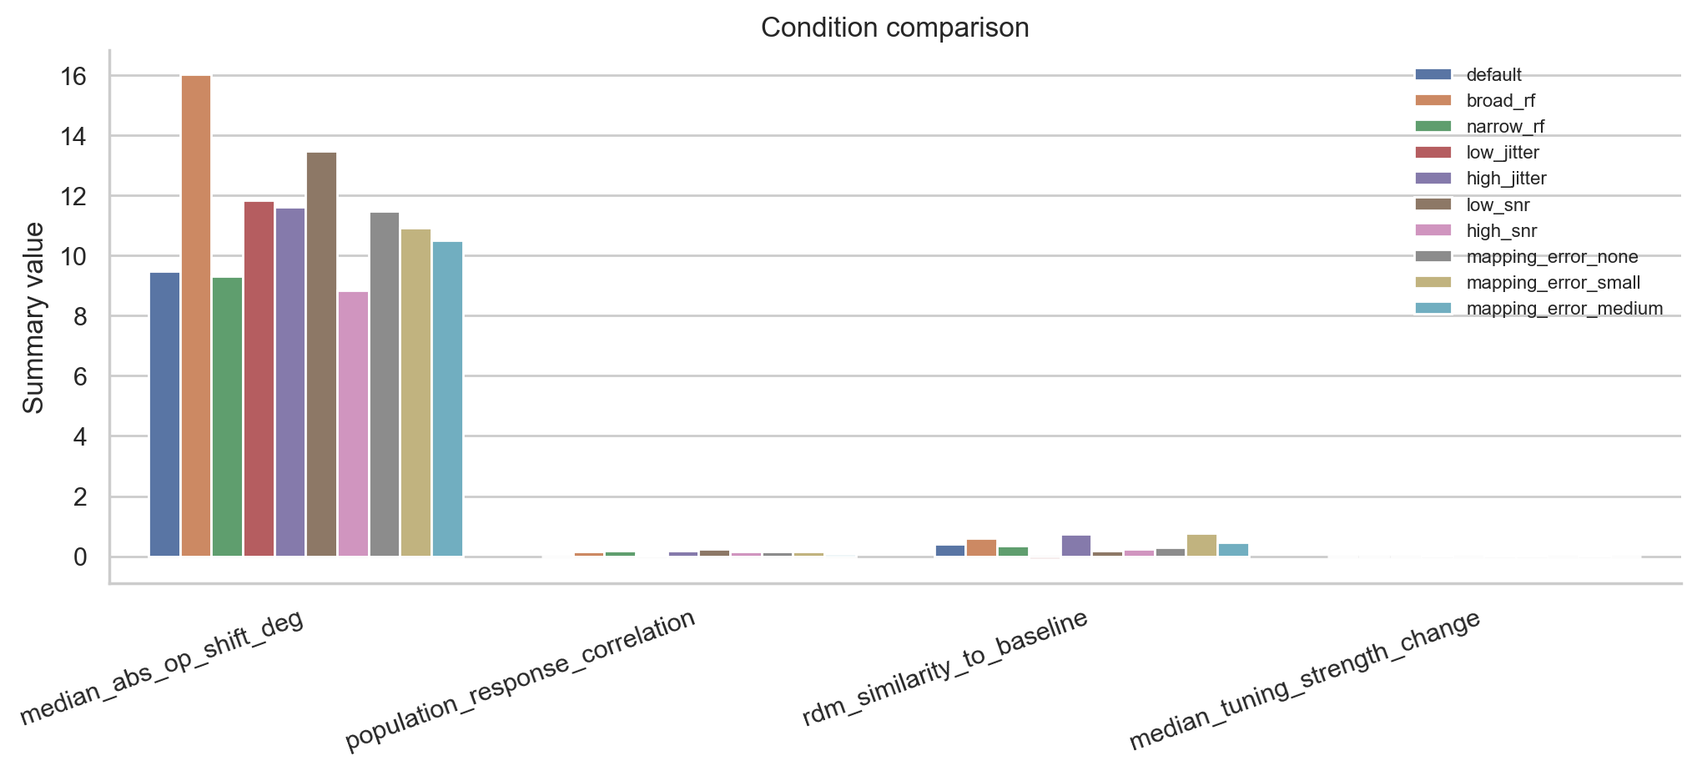
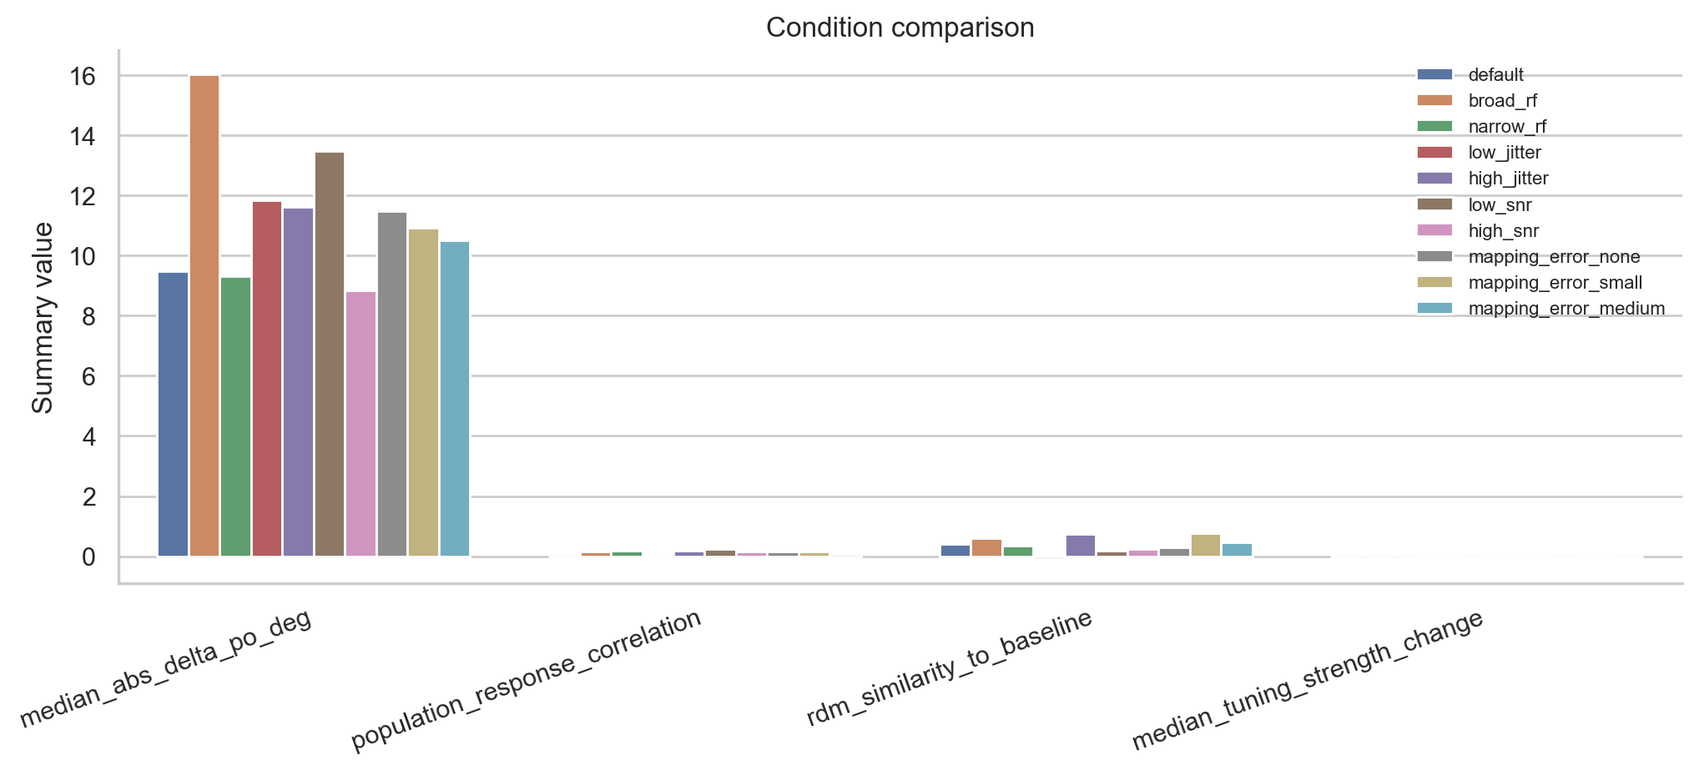
Rename orientation change metrics to delta PO

diff --git a/src/interpretation.py b/src/interpretation.py
@@ -13,7 +13,7 @@ def methods_summary_text(config: dict) -> str:
     gaze = config["gaze"]
     return f"""# Methods Summary
 
-This first-pass null model simulates {n} L2/3-like units sampled uniformly in a {size:.0f} x {size:.0f} um V1 imaging field. Cortical positions are mapped to visual RF centers by a configurable local linear retinotopic transform with Gaussian cell-to-cell scatter. Each unit has a single Gabor-like receptive field with sampled orientation preference, spatial-frequency preference, RF envelope widths, phase, gain, baseline, and static nonlinearity.
+This first-pass null model simulates {n} L2/3-like units sampled uniformly in a {size:.0f} x {size:.0f} um V1 imaging field. Cortical positions are mapped to visual RF centers by a configurable local linear retinotopic transform with Gaussian cell-to-cell scatter. Each unit has a single Gabor-like receptive field with sampled PO, spatial-frequency preference, RF envelope widths, phase, gain, baseline, and static nonlinearity.
 
 Full-field gratings are evaluated with a Gabor-inspired analytic response model that separates orientation/SF matching from gaze-dependent phase. Natural-image responses are evaluated by applying sampled Gabor kernels to preprocessed grayscale images. If no image folder is provided, the pipeline uses procedural naturalistic images so the project remains runnable.
 
@@ -37,23 +37,23 @@ def interpretation_text(
     lines = [
         "# Interpretation Summary",
         "",
-        f"At the largest simulated offset in this run ({far_g['gaze_az_deg']:.2f}, {far_g['gaze_el_deg']:.2f}) deg, the median absolute inferred OP shift was {far_g['median_abs_op_shift_deg']:.2f} deg and the 90th percentile was {far_g['p90_abs_op_shift_deg']:.2f} deg.",
-        f"The median tuning-strength change was {far_g['median_tuning_strength_change']:.3f}; this distinguishes OP rotation from tuning flattening or sharpening.",
+        f"At the largest simulated offset in this run ({far_g['gaze_az_deg']:.2f}, {far_g['gaze_el_deg']:.2f}) deg, the median absolute inferred ΔPO was {far_g['median_abs_delta_po_deg']:.2f} deg and the 90th percentile was {far_g['p90_abs_delta_po_deg']:.2f} deg.",
+        f"The median tuning-strength change was {far_g['median_tuning_strength_change']:.3f}; this distinguishes PO rotation from tuning flattening or sharpening.",
         f"For natural images at the same edge of the grid, population response correlation to baseline was {far_n['population_response_correlation']:.3f}, RDM similarity was {far_n['rdm_similarity_to_baseline']:.3f}, and the median relative per-neuron response change was {far_n['median_relative_response_change']:.3f}.",
         "",
         "Under this model, gaze matters little when RFs are broad, phase is averaged or an energy model is used, mapping is accurate, and SNR is high. Gaze matters more when RFs are narrow, high-SF units are common, phase-sensitive simple-cell responses are estimated from limited phases, or natural images contain local structure that translates across RF subfields.",
         "",
-        "Mapping errors matter when approximate projection, wrong scale, origin offsets, rotation mismatch, or nonlinear distortion produce systematic phase and position errors comparable to the RF subfield scale. Low SNR dominates when repeated-trial averaging and bootstrap intervals show large OP uncertainty even at zero or small gaze offsets.",
+        "Mapping errors matter when approximate projection, wrong scale, origin offsets, rotation mismatch, or nonlinear distortion produce systematic phase and position errors comparable to the RF subfield scale. Low SNR dominates when repeated-trial averaging and bootstrap intervals show large PO uncertainty even at zero or small gaze offsets.",
     ]
     if decomposition_table is not None and not decomposition_table.empty:
         edge = decomposition_table.sort_values("summary_radius").groupby("condition").tail(1)
         lines.extend(["", "Decomposition at the largest analyzed offsets:"])
         for row in edge.itertuples(index=False):
             lines.append(
-                f"- {row.condition}: median |dOP| {row.median_abs_op_shift_deg:.2f} deg, natural-image correlation {row.population_response_correlation:.3f}, RDM similarity {row.rdm_similarity_to_baseline:.3f}."
+                f"- {row.condition}: median |ΔPO| {row.median_abs_delta_po_deg:.2f} deg, natural-image correlation {row.population_response_correlation:.3f}, RDM similarity {row.rdm_similarity_to_baseline:.3f}."
             )
     lines.append("")
     lines.append(
-        "Natural images are considered more gaze-sensitive than gratings here when their population correlation or RDM similarity drops substantially while grating OP shifts remain small. That pattern is expected because translating a structured image can change RF drive without necessarily changing the orientation that best fits grating responses."
+        "Natural images are considered more gaze-sensitive than gratings here when their population correlation or RDM similarity drops substantially while grating ΔPO remains small. That pattern is expected because translating a structured image can change RF drive without necessarily changing the PO that best fits grating responses."
     )
     return "\n".join(lines) + "\n"

diff --git a/src/simulation.py b/src/simulation.py
@@ -82,7 +82,7 @@ def run_grating_shift_grid(
     """Run grating tuning estimation for all gaze shifts."""
     stimuli = make_grating_stimuli(config)
     shifts = make_gaze_grid(config) if shifts is None else shifts.copy()
-    threshold = float(config["analysis"]["op_large_shift_threshold_deg"])
+    threshold = float(config["analysis"].get("po_large_shift_threshold_deg", 10.0))
 
     baseline_mean, baseline_trials = grating_response_mean(
         population,
@@ -298,21 +298,21 @@ def make_primary_figures(
     fig_dir = paths["figures"]
     heatmap_from_table(
         grating_summary,
-        "median_abs_op_shift_deg",
-        fig_dir / "primary_01_median_abs_op_shift.png",
-        title="Median absolute OP shift",
+        "median_abs_delta_po_deg",
+        fig_dir / "primary_01_median_abs_delta_po.png",
+        title="Median absolute ΔPO",
     )
     heatmap_from_table(
         grating_summary,
-        "p90_abs_op_shift_deg",
-        fig_dir / "primary_02_p90_abs_op_shift.png",
-        title="90th percentile absolute OP shift",
+        "p90_abs_delta_po_deg",
+        fig_dir / "primary_02_p90_abs_delta_po.png",
+        title="90th percentile absolute ΔPO",
     )
     heatmap_from_table(
         grating_summary,
-        "fraction_abs_op_shift_gt_threshold",
-        fig_dir / "primary_03_fraction_op_shift_gt_10deg.png",
-        title="Fraction of neurons with |dOP| > threshold",
+        "fraction_abs_delta_po_gt_threshold",
+        fig_dir / "primary_03_fraction_delta_po_gt_10deg.png",
+        title="Fraction of neurons with |ΔPO| > threshold",
     )
     heatmap_from_table(
         grating_summary,
@@ -365,11 +365,11 @@ def make_secondary_figures(
     changes = far["neuron_changes"]
 
     plt.figure(figsize=(5.6, 3.8))
-    sns.histplot(changes["abs_op_shift_deg"], bins=24, color="#4C78A8")
-    plt.xlabel("|dOP| (deg)")
+    sns.histplot(changes["abs_delta_po_deg"], bins=24, color="#4C78A8")
+    plt.xlabel("|ΔPO| (deg)")
     plt.ylabel("Neurons")
-    plt.title(f"OP shifts at gaze {far['gaze'][0]:.1f}, {far['gaze'][1]:.1f} deg")
-    savefig(fig_dir / "secondary_hist_abs_op_shift_far_offset.png")
+    plt.title(f"ΔPO at gaze {far['gaze'][0]:.1f}, {far['gaze'][1]:.1f} deg")
+    savefig(fig_dir / "secondary_hist_abs_delta_po_far_offset.png")
 
     plt.figure(figsize=(5.6, 3.8))
     sns.histplot(changes["circular_variance_change"], bins=24, color="#F58518")
@@ -380,18 +380,18 @@ def make_secondary_figures(
 
     mean_rf_size = 0.5 * (population["sigma_x_deg"].to_numpy() + population["sigma_y_deg"].to_numpy())
     plt.figure(figsize=(5.7, 4.1))
-    plt.scatter(mean_rf_size, changes["abs_op_shift_deg"], s=13, alpha=0.65)
+    plt.scatter(mean_rf_size, changes["abs_delta_po_deg"], s=13, alpha=0.65)
     plt.xlabel("Mean RF sigma (deg)")
-    plt.ylabel("|dOP| (deg)")
-    plt.title("OP shift versus RF size")
-    savefig(fig_dir / "secondary_scatter_op_shift_vs_rf_size.png")
+    plt.ylabel("|ΔPO| (deg)")
+    plt.title("ΔPO versus RF size")
+    savefig(fig_dir / "secondary_scatter_delta_po_vs_rf_size.png")
 
     plt.figure(figsize=(5.7, 4.1))
-    plt.scatter(population["f0_cpd"], changes["abs_op_shift_deg"], s=13, alpha=0.65)
+    plt.scatter(population["f0_cpd"], changes["abs_delta_po_deg"], s=13, alpha=0.65)
     plt.xlabel("Preferred SF (cpd)")
-    plt.ylabel("|dOP| (deg)")
-    plt.title("OP shift versus preferred SF")
-    savefig(fig_dir / "secondary_scatter_op_shift_vs_sf.png")
+    plt.ylabel("|ΔPO| (deg)")
+    plt.title("ΔPO versus preferred SF")
+    savefig(fig_dir / "secondary_scatter_delta_po_vs_sf.png")
 
     plt.figure(figsize=(5.7, 4.1))
     plt.scatter(mean_rf_size, changes["tuning_strength_change"], s=13, alpha=0.65)
@@ -407,15 +407,15 @@ def make_secondary_figures(
         np.sqrt(np.mean(baseline_nat**2, axis=0)) + 1e-9
     )
     plt.figure(figsize=(5.7, 4.1))
-    plt.scatter(changes["abs_op_shift_deg"], natural_change, s=13, alpha=0.65)
-    plt.xlabel("|dOP| at far offset (deg)")
+    plt.scatter(changes["abs_delta_po_deg"], natural_change, s=13, alpha=0.65)
+    plt.xlabel("|ΔPO| at far offset (deg)")
     plt.ylabel("Natural-image relative change")
-    plt.title(f"Bridge sensitivity r={safe_corrcoef(changes['abs_op_shift_deg'], natural_change):.2f}")
+    plt.title(f"Bridge sensitivity r={safe_corrcoef(changes['abs_delta_po_deg'], natural_change):.2f}")
     savefig(fig_dir / "secondary_scatter_natural_vs_grating_sensitivity.png")
 
     baseline_tuning = grating_result["baseline_tuning"]["tuning_curve"]
     shifted_tuning = far["tuning"]["tuning_curve"]
-    selected = np.argsort(changes["abs_op_shift_deg"])
+    selected = np.argsort(changes["abs_delta_po_deg"])
     neuron_ids = [int(selected[0]), int(selected[len(selected) // 2]), int(selected[-1])]
     plot_tuning_examples(
         baseline_tuning,

diff --git a/src/metrics.py b/src/metrics.py
@@ -8,20 +8,20 @@ from .tuning import circular_difference_deg
 
 
 def grating_shift_metrics(baseline: dict[str, np.ndarray], shifted: dict[str, np.ndarray], threshold_deg: float) -> dict[str, float]:
-    """Summarize orientation and tuning-strength changes for one gaze shift."""
-    op_shift = circular_difference_deg(
-        shifted["preferred_orientation_deg"],
-        baseline["preferred_orientation_deg"],
+    """Summarize PO and tuning-strength changes for one gaze shift."""
+    delta_po = circular_difference_deg(
+        shifted["po_deg"],
+        baseline["po_deg"],
         period=180.0,
     )
-    abs_op = np.abs(op_shift)
+    abs_delta_po = np.abs(delta_po)
     cv_change = shifted["circular_variance"] - baseline["circular_variance"]
     strength_change = shifted["orientation_selectivity"] - baseline["orientation_selectivity"]
     return {
-        "median_abs_op_shift_deg": float(np.nanmedian(abs_op)),
-        "p90_abs_op_shift_deg": float(np.nanpercentile(abs_op, 90)),
-        "fraction_abs_op_shift_gt_threshold": float(np.nanmean(abs_op > float(threshold_deg))),
-        "median_signed_op_shift_deg": float(np.nanmedian(op_shift)),
+        "median_abs_delta_po_deg": float(np.nanmedian(abs_delta_po)),
+        "p90_abs_delta_po_deg": float(np.nanpercentile(abs_delta_po, 90)),
+        "fraction_abs_delta_po_gt_threshold": float(np.nanmean(abs_delta_po > float(threshold_deg))),
+        "median_signed_delta_po_deg": float(np.nanmedian(delta_po)),
         "median_circular_variance_change": float(np.nanmedian(cv_change)),
         "median_tuning_strength_change": float(np.nanmedian(strength_change)),
         "median_abs_tuning_strength_change": float(np.nanmedian(np.abs(strength_change))),
@@ -30,14 +30,14 @@ def grating_shift_metrics(baseline: dict[str, np.ndarray], shifted: dict[str, np
 
 def neuronwise_grating_changes(baseline: dict[str, np.ndarray], shifted: dict[str, np.ndarray]) -> dict[str, np.ndarray]:
     """Return per-neuron grating sensitivity values."""
-    op_shift = circular_difference_deg(
-        shifted["preferred_orientation_deg"],
-        baseline["preferred_orientation_deg"],
+    delta_po = circular_difference_deg(
+        shifted["po_deg"],
+        baseline["po_deg"],
         period=180.0,
     )
     return {
-        "signed_op_shift_deg": op_shift,
-        "abs_op_shift_deg": np.abs(op_shift),
+        "signed_delta_po_deg": delta_po,
+        "abs_delta_po_deg": np.abs(delta_po),
         "circular_variance_change": shifted["circular_variance"] - baseline["circular_variance"],
         "tuning_strength_change": shifted["orientation_selectivity"] - baseline["orientation_selectivity"],
     }

diff --git a/src/tuning.py b/src/tuning.py
@@ -26,7 +26,7 @@ def estimate_orientation_tuning(
     orientations_deg: np.ndarray,
     spatial_frequencies_cpd: np.ndarray,
 ) -> dict[str, np.ndarray]:
-    """Estimate OP, best SF, circular variance, and vector strength.
+    """Estimate PO, best SF, circular variance, and vector strength.
 
     Parameters
     ----------
@@ -57,7 +57,7 @@ def estimate_orientation_tuning(
     best_ori_idx = np.nanargmax(tuning, axis=1)
 
     return {
-        "preferred_orientation_deg": pref,
+        "po_deg": pref,
         "best_spatial_frequency_cpd": sfs[best_sf_idx],
         "best_orientation_grid_deg": orientations[best_ori_idx],
         "orientation_selectivity": vector_strength,
@@ -92,7 +92,7 @@ def bootstrap_orientation_ci(
     for idx in range(int(n_bootstrap)):
         sample_idx = rng.integers(0, repeats, size=repeats)
         estimate = estimate_orientation_tuning(np.mean(trials[sample_idx], axis=0), orientations_deg, spatial_frequencies_cpd)
-        pref_samples[idx] = estimate["preferred_orientation_deg"]
+        pref_samples[idx] = estimate["po_deg"]
         cv_samples[idx] = estimate["circular_variance"]
 
     center = circular_mean_deg(pref_samples, period=180.0)
@@ -101,7 +101,7 @@ def bootstrap_orientation_ci(
     pref_high = np.nanpercentile(pref_samples, 97.5, axis=0)
     pref_width = np.abs(circular_difference_deg(pref_high, pref_low, period=180.0))
     return {
-        "preferred_orientation_ci_width_deg": pref_width,
+        "po_ci_width_deg": pref_width,
         "circular_variance_ci_width": np.nanpercentile(cv_samples, 97.5, axis=0)
         - np.nanpercentile(cv_samples, 2.5, axis=0),
     }

diff --git a/scripts/run_drift_sanity_check.py b/scripts/run_drift_sanity_check.py
@@ -80,12 +80,12 @@ def main() -> None:
     table.to_csv(out_path, index=False)
 
     plt.figure(figsize=(7.2, 4.5))
-    sns.lineplot(data=table, x="drift_deg", y="median_abs_op_shift_deg", hue="drift_path", marker="o")
-    plt.axhline(config["analysis"]["op_large_shift_threshold_deg"], color="0.35", lw=1, ls="--")
+    sns.lineplot(data=table, x="drift_deg", y="median_abs_delta_po_deg", hue="drift_path", marker="o")
+    plt.axhline(config["analysis"].get("po_large_shift_threshold_deg", 10.0), color="0.35", lw=1, ls="--")
     plt.xlabel("FOV/gaze drift magnitude (deg)")
-    plt.ylabel("Median |dOP| (deg)")
+    plt.ylabel("Median |ΔPO| (deg)")
     plt.title("Focused 1-10 degree drift sanity check")
-    savefig(paths["figures"] / "drift_sanity_median_abs_op_shift.png")
+    savefig(paths["figures"] / "drift_sanity_median_abs_delta_po.png")
 
     if args.include_natural:
         plt.figure(figsize=(7.2, 4.5))

diff --git a/src/plotting.py b/src/plotting.py
@@ -58,7 +58,7 @@ def plot_parameter_distributions(population: pd.DataFrame, path: str | Path) -> 
     """Plot sampled RF and retinotopy parameter distributions."""
     fig, axes = plt.subplots(2, 3, figsize=(10.5, 6.2))
     fields = [
-        ("theta0_deg", "Preferred orientation (deg)"),
+        ("theta0_deg", "PO (deg)"),
         ("f0_cpd", "Preferred SF (cpd)"),
         ("sigma_x_deg", "RF sigma x (deg)"),
         ("sigma_y_deg", "RF sigma y (deg)"),
@@ -158,7 +158,7 @@ def plot_tuning_examples(
 def plot_summary_bars(summary: pd.DataFrame, path: str | Path) -> None:
     """Plot condition-level summary bars for decomposition or model comparison."""
     metrics = [
-        "median_abs_op_shift_deg",
+        "median_abs_delta_po_deg",
         "population_response_correlation",
         "rdm_similarity_to_baseline",
         "median_tuning_strength_change",

diff --git a/scripts/run_sensitivity_sweeps.py b/scripts/run_sensitivity_sweeps.py
@@ -46,12 +46,12 @@ def main() -> None:
     plt.figure(figsize=(7.2, 4.5))
     sns.scatterplot(
         data=table,
-        x="median_abs_op_shift_deg",
+        x="median_abs_delta_po_deg",
         y="median_relative_response_change",
         hue="condition",
         s=80,
     )
-    plt.xlabel("Median |dOP| at far offset (deg)")
+    plt.xlabel("Median |ΔPO| at far offset (deg)")
     plt.ylabel("Median natural-image relative response change")
     plt.title("Parameter sweep bridge summary")
     plt.legend(frameon=False, fontsize=8, bbox_to_anchor=(1.02, 1), loc="upper left")

diff --git a/tests/test_tuning_estimation.py b/tests/test_tuning_estimation.py
@@ -11,6 +11,6 @@ def test_orientation_estimation_recovers_synthetic_peak():
     responses = np.zeros((1, len(orientations), len(sfs)))
     responses[0, :, 1] = tuning
     estimate = estimate_orientation_tuning(responses, orientations, sfs)
-    assert abs(((estimate["preferred_orientation_deg"][0] - 40 + 90) % 180) - 90) < 2
+    assert abs(((estimate["po_deg"][0] - 40 + 90) % 180) - 90) < 2
     assert estimate["best_spatial_frequency_cpd"][0] == 0.08
     assert estimate["orientation_selectivity"][0] > 0.5

diff --git a/results/tables/interpretation_summary.md b/results/tables/interpretation_summary.md
@@ -1,17 +1,17 @@
 # Interpretation Summary
 
-At the largest simulated offset in this run (5.00, 5.00) deg, the median absolute inferred OP shift was 9.49 deg and the 90th percentile was 37.28 deg.
-The median tuning-strength change was -0.007; this distinguishes OP rotation from tuning flattening or sharpening.
+At the largest simulated offset in this run (5.00, 5.00) deg, the median absolute inferred ΔPO was 9.49 deg and the 90th percentile was 37.28 deg.
+The median tuning-strength change was -0.007; this distinguishes PO rotation from tuning flattening or sharpening.
 For natural images at the same edge of the grid, population response correlation to baseline was -0.009, RDM similarity was 0.411, and the median relative per-neuron response change was 1.061.
 
 Under this model, gaze matters little when RFs are broad, phase is averaged or an energy model is used, mapping is accurate, and SNR is high. Gaze matters more when RFs are narrow, high-SF units are common, phase-sensitive simple-cell responses are estimated from limited phases, or natural images contain local structure that translates across RF subfields.
 
-Mapping errors matter when approximate projection, wrong scale, origin offsets, rotation mismatch, or nonlinear distortion produce systematic phase and position errors comparable to the RF subfield scale. Low SNR dominates when repeated-trial averaging and bootstrap intervals show large OP uncertainty even at zero or small gaze offsets.
+Mapping errors matter when approximate projection, wrong scale, origin offsets, rotation mismatch, or nonlinear distortion produce systematic phase and position errors comparable to the RF subfield scale. Low SNR dominates when repeated-trial averaging and bootstrap intervals show large PO uncertainty even at zero or small gaze offsets.
 
 Decomposition at the largest analyzed offsets:
-- gaze_plus_mapping_error_noiseless: median |dOP| 9.72 deg, natural-image correlation -0.026, RDM similarity 0.403.
-- gaze_only_perfect_noiseless: median |dOP| 9.49 deg, natural-image correlation -0.009, RDM similarity 0.411.
-- gaze_plus_noise_perfect: median |dOP| 9.42 deg, natural-image correlation -0.010, RDM similarity 0.411.
-- gaze_plus_mapping_error_plus_noise: median |dOP| 9.11 deg, natural-image correlation -0.026, RDM similarity 0.404.
+- gaze_plus_mapping_error_noiseless: median |ΔPO| 9.72 deg, natural-image correlation -0.026, RDM similarity 0.403.
+- gaze_only_perfect_noiseless: median |ΔPO| 9.49 deg, natural-image correlation -0.009, RDM similarity 0.411.
+- gaze_plus_noise_perfect: median |ΔPO| 9.42 deg, natural-image correlation -0.010, RDM similarity 0.411.
+- gaze_plus_mapping_error_plus_noise: median |ΔPO| 9.11 deg, natural-image correlation -0.026, RDM similarity 0.404.
 
-Natural images are considered more gaze-sensitive than gratings here when their population correlation or RDM similarity drops substantially while grating OP shifts remain small. That pattern is expected because translating a structured image can change RF drive without necessarily changing the orientation that best fits grating responses.
+Natural images are considered more gaze-sensitive than gratings here when their population correlation or RDM similarity drops substantially while grating ΔPO remains small. That pattern is expected because translating a structured image can change RF drive without necessarily changing the PO that best fits grating responses.

diff --git a/README.md b/README.md
@@ -2,7 +2,7 @@
 
 This project is a reproducible first-pass null model for the question:
 
-**How much change in inferred orientation preference should be expected from gaze shifts alone in mouse V1 L2/3, and are natural-image responses more sensitive to gaze than grating tuning?**
+**How much change in inferred PO should be expected from gaze shifts alone in mouse V1 L2/3, and are natural-image responses more sensitive to gaze than grating tuning?**
 
 The simulation builds a 500 x 500 um two-photon field of view, samples mouse-V1-like Gabor receptive fields, maps cells into visual coordinates with local retinotopy plus jitter, and compares grating tuning with natural-image population responses under global gaze shifts.
 
@@ -74,7 +74,7 @@ Each neuron has:
 
 - cortical position in a 500 x 500 um FOV
 - RF center from a configurable local retinotopic map plus Gaussian jitter
-- preferred orientation in [0, 180) degrees
+- PO in [0, 180) degrees
 - preferred spatial frequency
 - RF envelope widths
 - Gabor phase
@@ -139,14 +139,14 @@ Generated outputs are written to:
 - `results/arrays/`: compressed arrays for selected responses/images
 - `results/tables/`: CSV summaries plus `methods_summary.md` and `interpretation_summary.md`
 
-Primary figures include heat maps for median and 90th percentile OP shift, fraction of neurons above the OP-shift threshold, circular-variance change, tuning-strength change, natural-image response correlation, RDM similarity, response-change magnitude, grating versus natural-image summaries, decomposition summaries, and simple-cell versus energy-model summaries.
+Primary figures include heat maps for median and 90th percentile `|ΔPO|`, fraction of neurons above the `|ΔPO|` threshold, circular-variance change, tuning-strength change, natural-image response correlation, RDM similarity, response-change magnitude, grating versus natural-image summaries, decomposition summaries, and simple-cell versus energy-model summaries.
 
 ## Notebooks
 
 Run notebooks only after activating `gaze_v1_sim`.
 
 - `01_model_setup_and_sampling.ipynb`: cortical sampling, retinotopy, mapping, RF distributions, RF examples
-- `02_grating_tuning_and_op_estimation.ipynb`: grating responses, OP estimation, circular variance, simple versus energy model
+- `02_grating_tuning_and_po_estimation.ipynb`: grating responses, PO estimation, circular variance, simple versus energy model
 - `03_gaze_shift_heatmaps.ipynb`: grating gaze-shift heat maps and example tuning changes
 - `04_natural_images_comparison.ipynb`: natural-image responses, correlations, RDMs, grating comparison
 - `05_noise_and_mapping_error_effects.ipynb`: decomposition of geometry, mapping error, and SNR
@@ -156,10 +156,10 @@ Run notebooks only after activating `gaze_v1_sim`.
 
 The generated interpretation summary addresses:
 
-1. when gaze causes substantial OP shifts
-2. when gaze mainly flattens tuning rather than rotating OP
+1. when gaze causes substantial `ΔPO`
+2. when gaze mainly flattens tuning rather than rotating PO
 3. how much instability mapping error explains alone
-4. how much apparent OP instability low SNR explains alone
+4. how much apparent PO instability low SNR explains alone
 5. whether natural images are more sensitive than gratings
 6. which assumptions make gaze effects large enough to matter for mouse V1 experiments
 

diff --git a/results/tables/methods_summary.md b/results/tables/methods_summary.md
@@ -1,6 +1,6 @@
 # Methods Summary
 
-This first-pass null model simulates 160 L2/3-like units sampled uniformly in a 500 x 500 um V1 imaging field. Cortical positions are mapped to visual RF centers by a configurable local linear retinotopic transform with Gaussian cell-to-cell scatter. Each unit has a single Gabor-like receptive field with sampled orientation preference, spatial-frequency preference, RF envelope widths, phase, gain, baseline, and static nonlinearity.
+This first-pass null model simulates 160 L2/3-like units sampled uniformly in a 500 x 500 um V1 imaging field. Cortical positions are mapped to visual RF centers by a configurable local linear retinotopic transform with Gaussian cell-to-cell scatter. Each unit has a single Gabor-like receptive field with sampled PO, spatial-frequency preference, RF envelope widths, phase, gain, baseline, and static nonlinearity.
 
 Full-field gratings are evaluated with a Gabor-inspired analytic response model that separates orientation/SF matching from gaze-dependent phase. Natural-image responses are evaluated by applying sampled Gabor kernels to preprocessed grayscale images. If no image folder is provided, the pipeline uses procedural naturalistic images so the project remains runnable.
 
